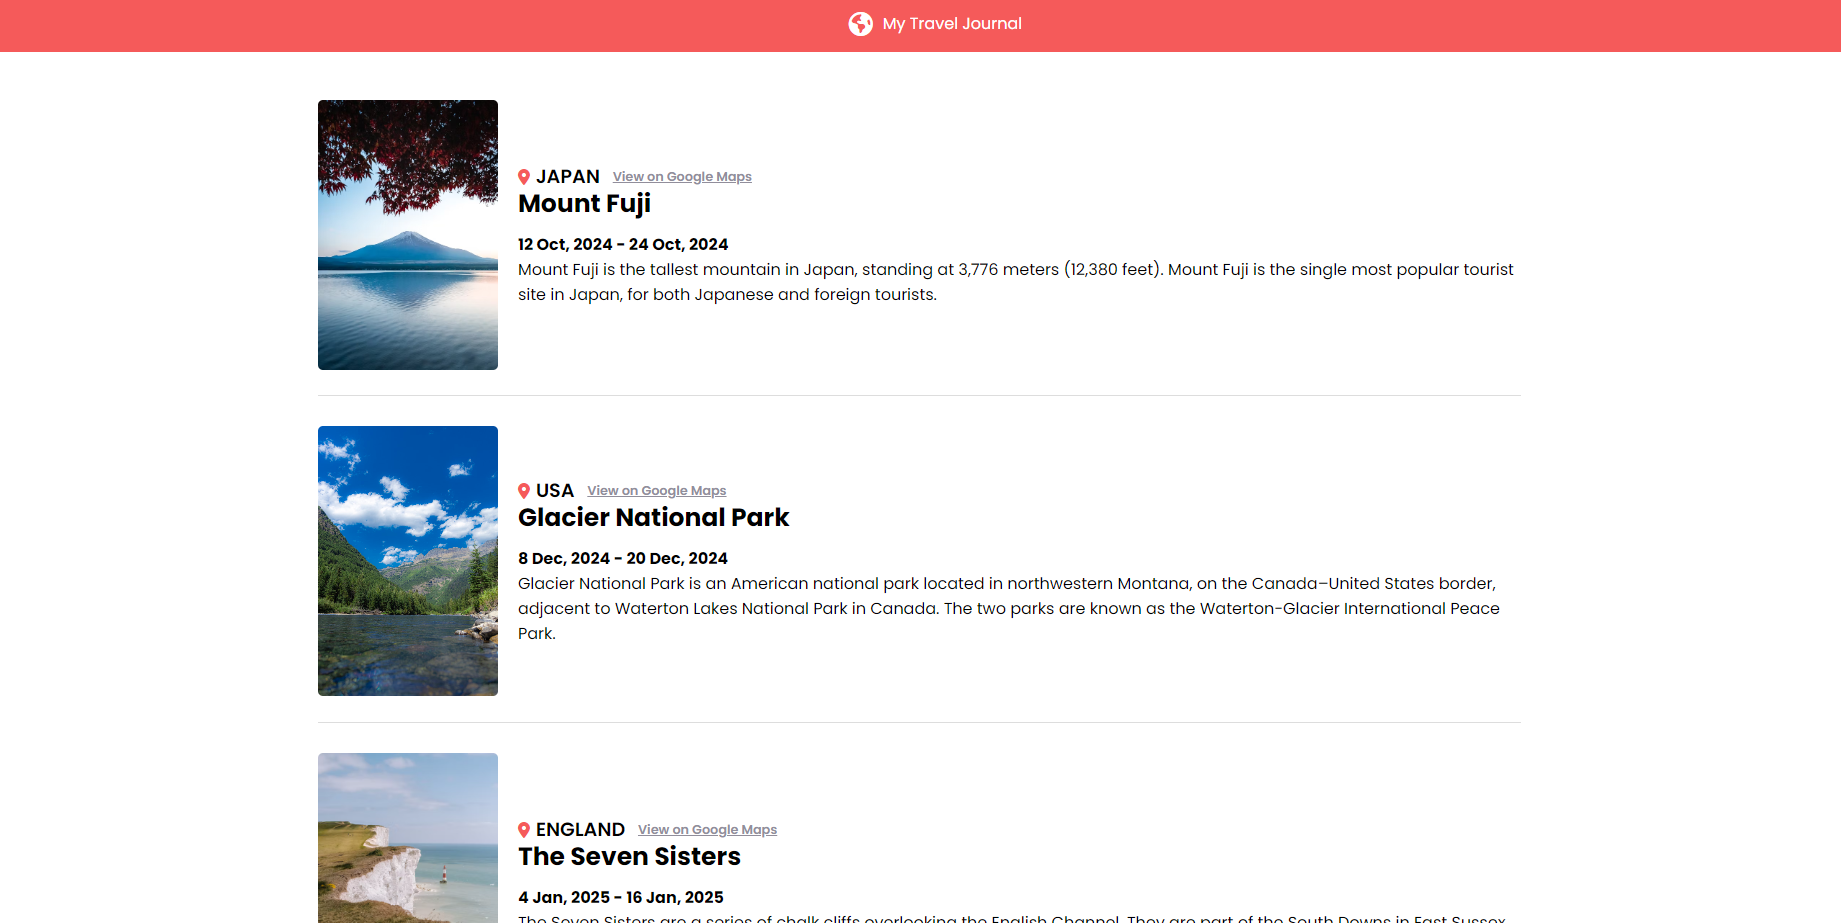
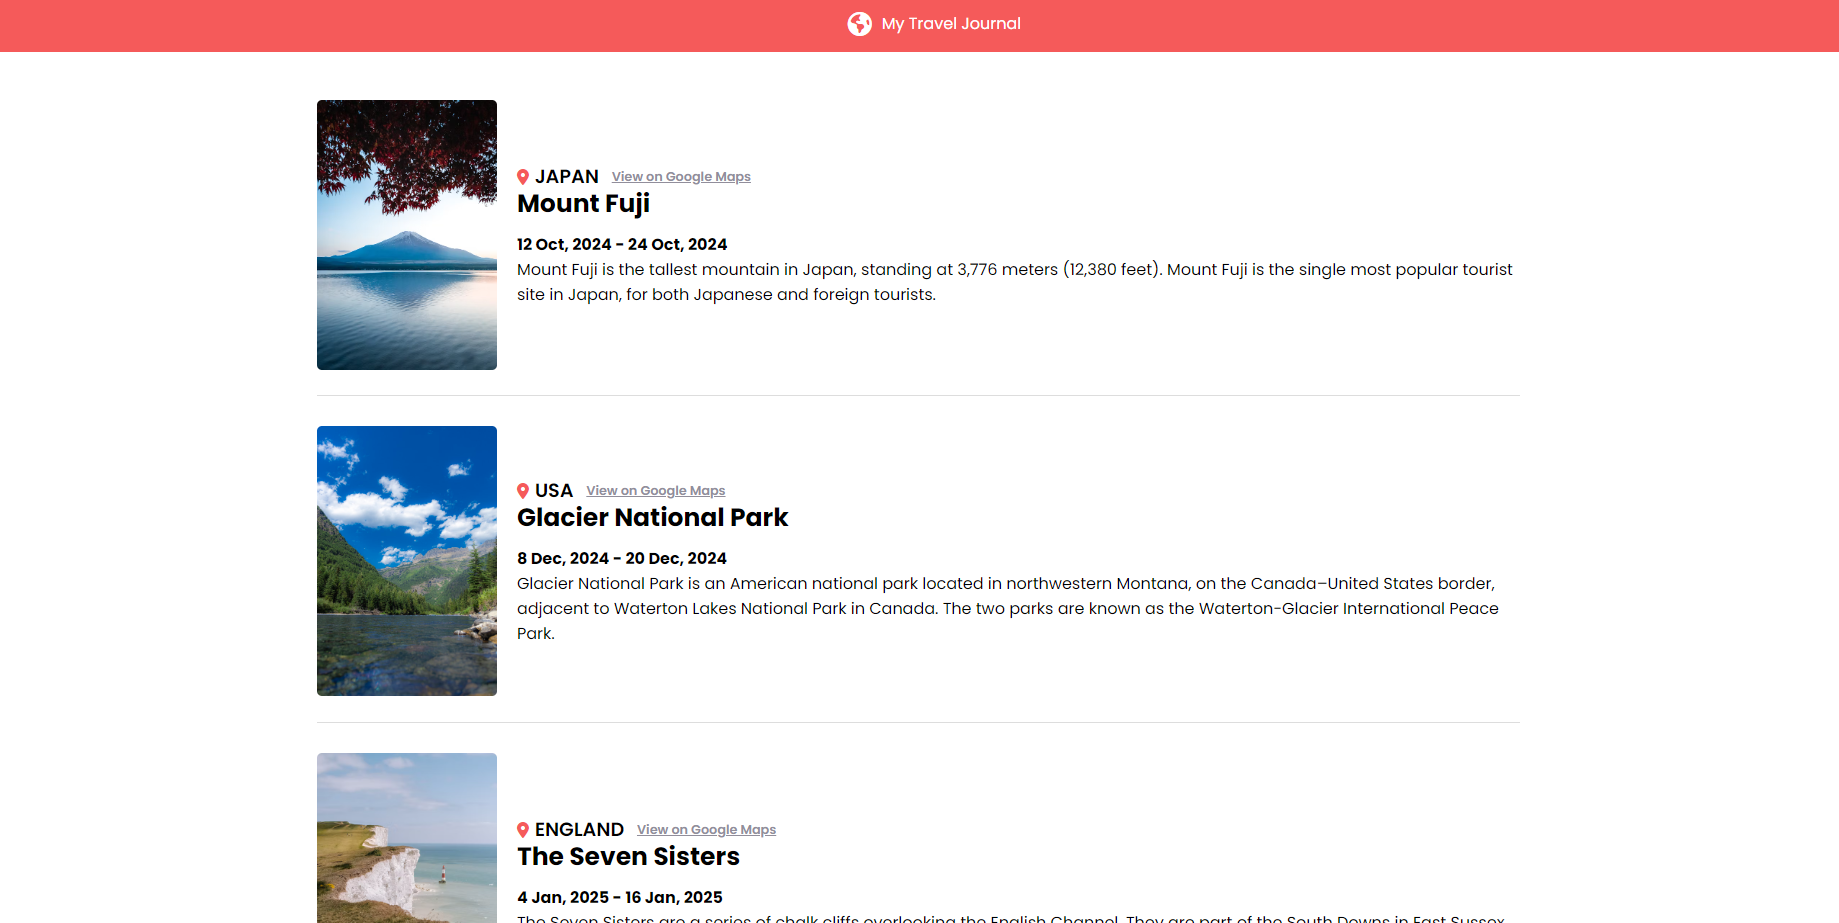
Started to implement media query for larger screen

diff --git a/src/index.css b/src/index.css
@@ -16,9 +16,10 @@ body {
 
 
 /* Typography */
-header .header-title {
+.header-title {
   font-size: 0.85rem;
   color: var(--headers-color);
+  margin: 0;
 }
 
 .name {
@@ -34,7 +35,8 @@ header .header-title {
   margin-bottom: 0;
 }
 
-.card-container .email {
+.email {
+  font-size: 0.8rem;
   margin: 0;
   color: #ffffff;
 }
@@ -77,6 +79,8 @@ footer {
   display: flex;
   justify-content: center;
   align-items: center;
+  bottom: 0;
+  left: 0;
 }
 
 header .switch-language-button {
@@ -97,6 +101,7 @@ header .switch-language-button {
 }
 
 .main-content {
+  min-height: calc(100vh - 60px);
   display: flex;
   flex-direction: column;
   align-items: center;
@@ -125,6 +130,7 @@ header .switch-language-button {
 
 .card-image-container img {
   object-fit: cover;
+  display: block;
   width: 100%;
   height: 100%;
   border-radius: 10px;
@@ -163,9 +169,10 @@ header .switch-language-button {
   filter: drop-shadow(0 0 0.4rem #ffffff)
 }
 
-.description-section {
+.description-and-skill-section {
   display: flex;
   flex-direction: column;
+  justify-content: center;
   align-items: center;
 }
 
@@ -257,6 +264,7 @@ header .switch-language-button {
 
 .certificates-section, 
 .projects-section {
+  border: 1px solid red;
   display: flex;
   flex-direction: column;
   justify-content: center;
@@ -355,4 +363,57 @@ header .switch-language-button {
   object-fit: cover;
   width: 100%;
   height: 100%;
+}
+
+@media (min-width: 1350px) {
+  .main-content {
+    display: grid;
+    grid-template-areas:
+        "about certificates certificates"
+        "about certificates certificates"
+        "projects projects projects";
+    gap: 20px;
+  }
+
+  .about-section {
+    grid-area: about;
+    width: 100%;
+    flex-direction: row;
+    align-items: start;
+    gap: 30px;
+  }
+
+  .certificates-section {
+    grid-area: certificates;
+    align-self: flex-start;
+  }
+
+  .projects-section {
+    grid-area: projects;
+  }
+
+  .skills-container {
+    display: flex;
+  }
+
+  .certificates-section .carousel {
+    width: 450px;
+    height: 300px;
+  }
+
+  .projects-section .carousel {
+    border: 1px solid green;
+    width: 600px;
+    height: 500px;
+  }
+
+  .project-card {
+    transition: translate 300ms ease-in-out;
+  }
+  
+  .project-img-container {
+    width: 100%;
+    height: auto;
+  }
+
 }

diff --git a/components/Sections/About.jsx b/components/Sections/About.jsx
@@ -34,7 +34,7 @@ export default function About() {
                     </div>
                 </div>
 
-                <section className="description-section">
+                <section className="description-and-skill-section">
                     <p className="description-section-header">About me</p>
                     <div className="description-container">
                         <p className="description-text">{data.description}</p>
@@ -42,15 +42,15 @@ export default function About() {
                     <a className="scrimba-link" href="https://scrimba.com" target="_blank">
                         <p className="scrimba-link-text">Click here if you want discover more about Scrimba</p>
                     </a>
-                </section>
 
-                <section className="skills-section">
-                    <h2 className="skills-section-header">Skills</h2>
-                    <div className="skills-container">
-                        {data.skills.map(skill => (
-                            <p className={`${skill} skills`} key={skill}>{skill}</p>
-                        ))}
-                    </div>
+                    <section className="skills-section">
+                        <h2 className="skills-section-header">Skills</h2>
+                        <div className="skills-container">
+                            {data.skills.map(skill => (
+                                <p className={`${skill} skills`} key={skill}>{skill}</p>
+                            ))}
+                        </div>
+                    </section>
                 </section>
         </section>
     )

diff --git a/components/Sections/Projects.jsx b/components/Sections/Projects.jsx
@@ -29,8 +29,7 @@ export default function Projects() {
             key={project.id}
             className="project-card"
             style={{ translate: `${-100 * slideIndex}%`}}
-            onClick={() => openOverlay(`${project.imagePath}`)}
-        >
+            onClick={() => openOverlay(`${project.imagePath}`)}>
             <div className="project-img-container">
                 <img className="project-img" src={project.imagePath} alt={project.alternativeText} />
             </div>
